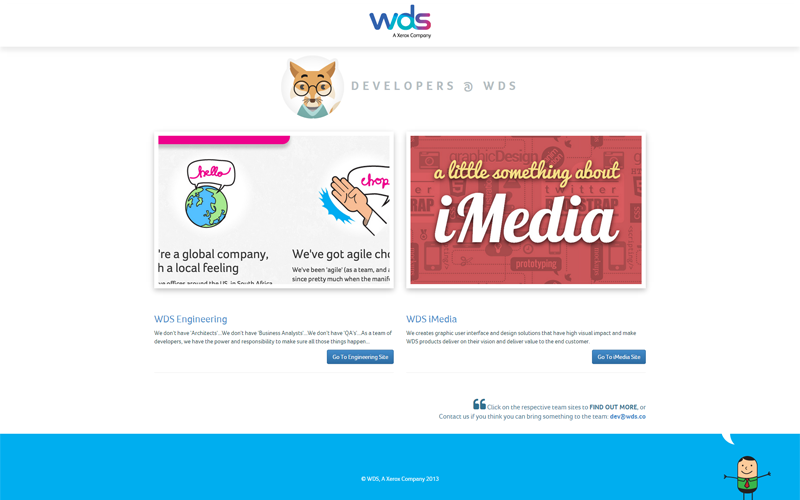
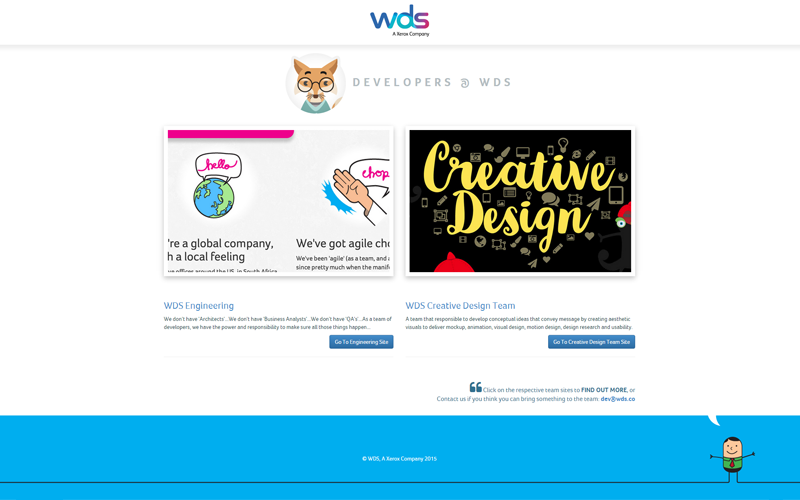
update

Changed region(s): [[0.0, 0.24, 1.0, 0.99], [0.3438, 0.12, 0.6562, 0.24], [0.4688, 0.0, 0.5625, 0.09]]

diff --git a/index.html b/index.html
@@ -257,7 +257,8 @@
             <h1 class="text-center text-primary">Portfolio</h1>
             <hr>
             <h3>Website/Front-End</h3>
-            <p>The following are some examples of my recent work in both design and front-end development. Twitter Bootstrap was used as CSS frameworks and SaSS ported version of Bootstrap was used in theme customization. All sites below are responsive.</p>
+            <p>The following are some examples of my recent work in both design and front-end development. Bootstrap was used as CSS frameworks and SCSS ported version of Bootstrap was used in theme customization. All sites below are responsive.</p>
+            <p>AmoreDio site is using Wordpress, theme development is started from scratch, from conception, static page building, until theme building using various automation tools.</p>
             <div class="row">
               <div class="col-sm-6">
                 <div class="image-link">
@@ -279,7 +280,13 @@
               </div>
               <div class="col-sm-6">
                 <div class="image-link">
-                  <a href="http://felixsusanto.github.io/cg-amoredio-static/#" target="_blank"><img src="img/portfolio/portfolio-4.png" alt="screenshot of site" class="img-responsive"></a>
+                  <a href="http://dev.wds.co/creativeDesignTeam/" target="_blank"><img src="img/portfolio/portfolio-1a.png" alt="screenshot of site" class="img-responsive"></a>
+                </div>
+                <p class="text-center lead">WDS Creative Design Team site</p>
+              </div>
+              <div class="col-sm-12">
+                <div class="image-link">
+                  <a href="http://cg.amoredio.org/" target="_blank"><img src="img/portfolio/portfolio-4.png" alt="screenshot of site" class="img-responsive"></a>
                 </div>
                 <p class="text-center lead">AmoreDio site</p>
               </div>
